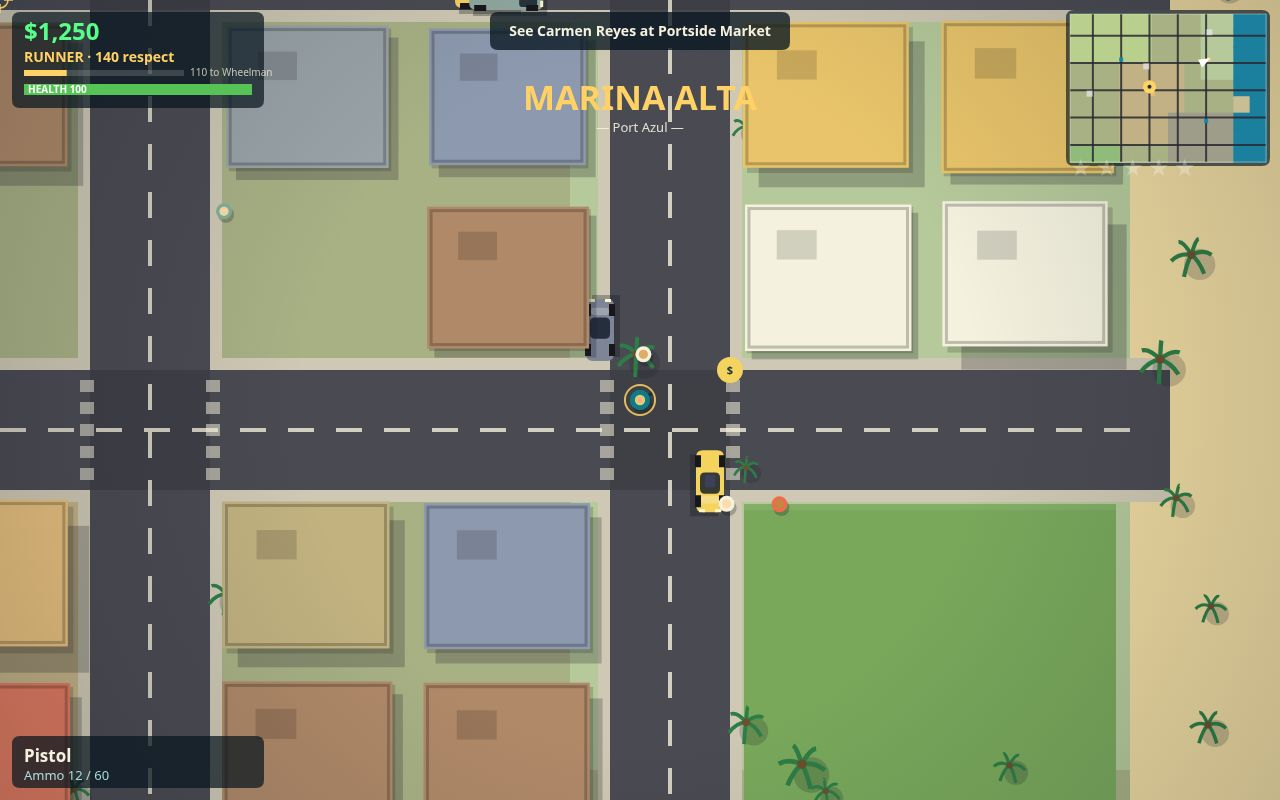
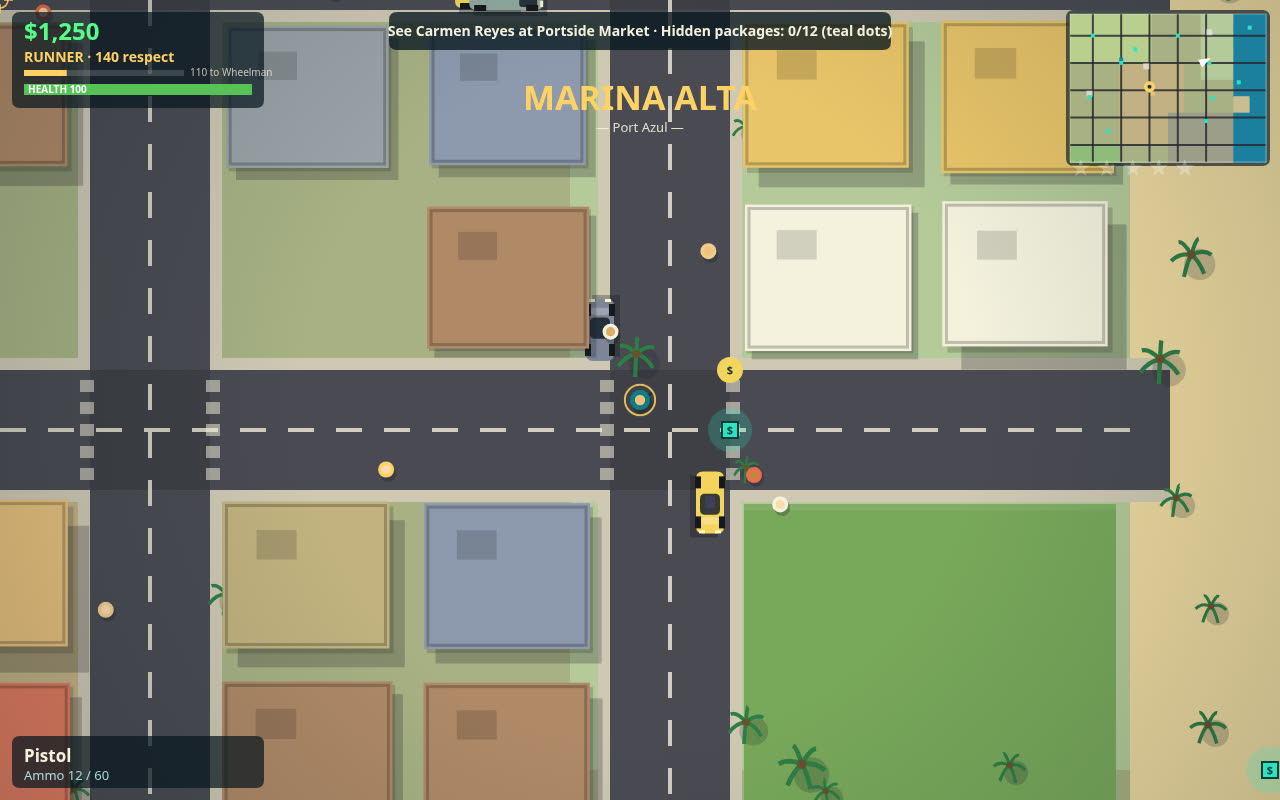
AZUL TIDE polish pass: 4 new story missions, hidden packages, muscle car, ped barks

diff --git a/game/src/missions.js b/game/src/missions.js
@@ -1,7 +1,9 @@
 // AZUL TIDE — missions.js
-// The mission engine and Carmen Reyes' ten-job story chain against the Sombra
-// syndicate, plus repeatable side work (taxi fares, courier runs, street
-// races, vigilante hits) offered at standing markers around Port Azul.
+// The mission engine and Carmen Reyes' fourteen-job story chain against the
+// Sombra syndicate, plus repeatable side work (taxi fares, courier runs,
+// street races, vigilante hits) offered at standing markers around Port Azul,
+// and twelve hidden Sombra packages stashed across the city that pay cash
+// when Dario walks or drives over them.
 //
 // Objective types: goto, deliver, chase-target, escort, race-checkpoints,
 // tail, combat-clear, escape. The engine runs one objective at a time, keeps
@@ -130,6 +132,53 @@ export const STORY_MISSIONS = [
     onStart(state) { raiseWanted(state, 4, 'mission'); },
   },
   {
+    id: 'neon-relay', title: 'Neon Relay', payout: 1900, respect: 120,
+    start: MARKET, timeLimit: 150,
+    dialogStart: [['Carmen Reyes', 'A neon dealer pays triple if his stock lands before the club opens. Clock is running, Dario.'], ['Dario Luna', 'Then I will not be stopping for red lights.']],
+    dialogEnd: [['Carmen Reyes', 'Beat the doors opening. The club crowd owes us now.']],
+    objectives: [
+      { type: 'goto', x: 1520, y: 1400, label: 'Grab the neon stock at Mercado Central', radius: 55 },
+      { type: 'deliver', x: MARINA.x, y: MARINA.y, label: 'Deliver to Marina Alta before the club opens', radius: 60, needCar: true },
+    ],
+  },
+  {
+    id: 'three-drops', title: 'Three Drops', payout: 2100, respect: 125,
+    start: MARKET,
+    dialogStart: [['Carmen Reyes', 'Sombra hid three cash drops around the city before we squeezed him. Collect them all, bring them home.'], ['Dario Luna', 'A treasure hunt. With better parking.']],
+    dialogEnd: [['Carmen Reyes', 'Every last bill. His war chest is our seed money now.']],
+    objectives: [
+      { type: 'goto', x: LIGHTHOUSE.x, y: 320, label: 'Collect drop one at Faro Point', radius: 55 },
+      { type: 'goto', x: 420, y: 1820, label: 'Collect drop two in the Flats', radius: 55 },
+      { type: 'goto', x: DOCKS.x, y: DOCKS.y, label: 'Collect drop three at the Old Harbor docks', radius: 55 },
+      { type: 'deliver', x: GARAGE_CENTRAL.x, y: GARAGE_CENTRAL.y, label: 'Bring the drops to Taller Luna Garage', radius: 60, needCar: true },
+    ],
+  },
+  {
+    id: 'witness-run', title: 'Witness Run', payout: 2300, respect: 135,
+    start: MARKET,
+    dialogStart: [['Carmen Reyes', 'A dock clerk saw everything at the warehouse. Get her to the Flats safehouse alive — Sombra is already hunting.'], ['Dario Luna', 'She rides with me. Nobody touches her.']],
+    dialogEnd: [['Carmen Reyes', 'She will talk. Sombra just lost his last alibi.']],
+    objectives: [
+      { type: 'escort', x: 360, y: 1400, label: 'Escort the witness to the Flats Safehouse', radius: 65, needCar: true },
+      { type: 'combat-clear', x: 360, y: 1400, label: 'Drive off the Sombra hit squad', radius: 95, thugs: 3 },
+    ],
+    onStart(state) {
+      spawnChaser(state, 1900, 1000);
+      spawnChaser(state, 1100, 1650);
+    },
+  },
+  {
+    id: 'convoy-takedown', title: 'Convoy Takedown', payout: 2600, respect: 150,
+    start: MARKET,
+    dialogStart: [['Carmen Reyes', 'Sombra runs one last armoured convoy car through Port Azul. Box it in, stop it, take what is inside.'], ['Dario Luna', 'One car. One me. Bad odds — for him.']],
+    dialogEnd: [['Carmen Reyes', 'The convoy is ours. Only Faro Point is left.']],
+    objectives: [
+      { type: 'chase-target', x: WAREHOUSE.x, y: WAREHOUSE.y, label: 'Run down the Sombra convoy car', radius: 80 },
+      { type: 'deliver', x: GARAGE_HARBOR.x, y: GARAGE_HARBOR.y, label: 'Bring the haul to Harbor Chop & Repair', radius: 65, needCar: true },
+    ],
+    onStart(state) { spawnMissionCar(state, 'muscle', 2300, 1100, 0, 'chase-target'); },
+  },
+  {
     id: 'faro-showdown', title: 'Faro Showdown', payout: 4000, respect: 220,
     start: MARKET,
     dialogStart: [['Victor Sombra', 'Faro Point, Luna. Bring your little empire. I will bring the tide.'], ['Dario Luna', 'This city is done paying you, Victor.']],
@@ -149,6 +198,18 @@ const SIDE_MARKERS = [
   { kind: 'vigilante', name: 'Vigilante Hits', x: WAREHOUSE.x, y: WAREHOUSE.y, color: '#ee6c4d' },
 ];
 
+// Hidden Sombra packages: twelve stashes hidden near landmarks. Walking or
+// driving over one pays $150; finding all twelve pays a $1,000 bonus. They
+// render as glowing teal crates in the world and as teal dots on the minimap
+// (hud.js reads state.data.packages).
+export const PACKAGE_SPOTS = [
+  { x: 3300, y: 240 }, { x: 420, y: 380 }, { x: 2560, y: 860 }, { x: 940, y: 860 },
+  { x: 2620, y: 1480 }, { x: 1460, y: 1340 }, { x: 360, y: 1460 }, { x: 1980, y: 380 },
+  { x: 2500, y: 1880 }, { x: 700, y: 2060 }, { x: 3100, y: 1200 }, { x: 1200, y: 620 },
+];
+export const PACKAGE_PAY = 150;
+export const PACKAGE_BONUS = 1000;
+
 function ensureMissions(state) {
   if (!state.data.missionsInit) {
     state.data.missionsInit = true;
@@ -165,6 +226,33 @@ function ensureMissions(state) {
   }
   if (!state.data.missionCars) state.data.missionCars = [];
   if (!state.data.dialogueQueue) state.data.dialogueQueue = [];
+  if (!state.data.packages) {
+    state.data.packages = PACKAGE_SPOTS.map((s) => ({ x: s.x, y: s.y, taken: false }));
+    state.data.packagesFound = 0;
+  }
+}
+
+function updatePackages(state) {
+  const pkgs = state.data.packages;
+  if (!pkgs) return;
+  const p = state.player;
+  for (const pkg of pkgs) {
+    if (pkg.taken) continue;
+    const d = Math.hypot(p.x - pkg.x, p.y - pkg.y);
+    if (d < 36) {
+      pkg.taken = true;
+      state.data.packagesFound += 1;
+      state.money += PACKAGE_PAY;
+      if (state.data.audioQueue) state.data.audioQueue.push('package');
+      if (state.data.packagesFound >= pkgs.length) {
+        state.money += PACKAGE_BONUS;
+        say(state, [['Carmen Reyes', 'Every hidden package in Port Azul. That is the whole stash, Dario — plus a $' + PACKAGE_BONUS + ' bonus from me.']]);
+      } else {
+        say(state, [['Dario Luna', 'Hidden package ' + state.data.packagesFound + '/' + pkgs.length + '. +$' + PACKAGE_PAY + '.']]);
+      }
+      state.data.requestAutosave = true;
+    }
+  }
 }
 
 function say(state, lines) {
@@ -221,7 +309,7 @@ export function startStoryMission(state, index) {
     index,
     def,
     objIndex: 0,
-    timer: 0,
+    timer: def.timeLimit || 0,
     objTimer: 0,
     pointIndex: 0,
     thugsAlive: 0,
@@ -356,7 +444,7 @@ function completeMission(state) {
     if (m.index === 3 && state.data.weapons) state.data.weapons.unlocked.smg = true;
     if (m.index === 6 && state.data.weapons) state.data.weapons.unlocked.shotgun = true;
     state.data.storyIndex = Math.max(state.data.storyIndex || 0, m.index + 1);
-    if (m.index === 9) say(state, [['Dario Luna', 'Port Azul is free. Time to build something of my own.']]);
+    if (m.index === 13) say(state, [['Dario Luna', 'Port Azul is free. Time to build something of my own.']]);
   } else {
     say(state, [['Dispatch', 'Job done. $' + payout + ' wired. More work whenever you want it.']]);
     state.data.sideCooldown = 4;
@@ -517,6 +605,7 @@ function update(state, dt) {
   }
 
   updateMissionCars(state, dt);
+  updatePackages(state);
 
   const p = state.player;
   const m = state.data.mission;
@@ -543,7 +632,10 @@ function update(state, dt) {
       }
     }
     state.data.missionMarker = next ? { x: MARKET.x, y: MARKET.y, label: next.title, kind: 'story' } : null;
-    state.data.objectiveText = next ? 'See Carmen Reyes at Portside Market' : 'Port Azul is yours. Side jobs still pay.';
+    const pkgNote = state.data.packagesFound < state.data.packages.length
+      ? ' · Hidden packages: ' + state.data.packagesFound + '/' + state.data.packages.length + ' (teal dots)'
+      : ' · All hidden packages found';
+    state.data.objectiveText = (next ? 'See Carmen Reyes at Portside Market' : 'Port Azul is yours. Side jobs still pay.') + pkgNote;
     return;
   }
 
@@ -623,6 +715,27 @@ function render(ctx, state, w, h) {
     ctx.font = 'bold 15px system-ui, sans-serif';
     ctx.textAlign = 'center';
     ctx.fillText(marker.kind === 'story' ? '!' : '◆', marker.x, marker.y - 44);
+  }
+
+  // Hidden packages: glowing teal crates with a soft pulse.
+  if (state.mode === 'playing') {
+    for (const pkg of state.data.packages || []) {
+      if (pkg.taken) continue;
+      const pulse = 1 + Math.sin(state.time * 3.4 + pkg.x * 0.01) * 0.18;
+      ctx.fillStyle = 'rgba(45,226,196,0.22)';
+      ctx.beginPath();
+      ctx.arc(pkg.x, pkg.y, 20 * pulse, 0, Math.PI * 2);
+      ctx.fill();
+      ctx.fillStyle = '#2de2c4';
+      ctx.fillRect(pkg.x - 8, pkg.y - 8, 16, 16);
+      ctx.strokeStyle = '#0b3d36';
+      ctx.lineWidth = 2;
+      ctx.strokeRect(pkg.x - 8, pkg.y - 8, 16, 16);
+      ctx.fillStyle = '#0b3d36';
+      ctx.font = 'bold 11px system-ui, sans-serif';
+      ctx.textAlign = 'center';
+      ctx.fillText('$', pkg.x, pkg.y + 4);
+    }
   }
 
   // Side-job markers when free.

diff --git a/game/src/pedestrians.js b/game/src/pedestrians.js
@@ -9,6 +9,9 @@
 
 import { H_ROADS, ROAD_W, V_ROADS } from './city.js';
 
+const BARKS_CALM = ['¡Qué calor hoy!', 'The tide smells like money.', 'Heard Sombra lost another truck.', 'Marina Alta tonight?', 'Careful, the police are jumpy.', 'Best empanadas at the market.'];
+const BARKS_FLEE = ['¡Cuidado!', 'He is crazy!', 'My car!', 'Run!', '¡Policía!', 'Not again!'];
+
 const SHIRTS = ['#e07a5f', '#81b29a', '#f2cc8f', '#a8dadc', '#f4f1de', '#ee6c4d', '#118ab2', '#ffd166'];
 const SKINS = ['#f1c27d', '#e0ac69', '#c68642', '#8d5524', '#ffdbac'];
 
@@ -27,6 +30,9 @@ export function makePed(x, y, rng) {
     fleeT: 0,
     walkSpeed: 42 + rng() * 30,
     phase: rng() * Math.PI * 2,
+    bark: null,
+    barkT: 0,
+    barkCooldown: 4 + rng() * 14,
   };
 }
 
@@ -110,8 +116,24 @@ export function updatePedestrian(ped, dt, state) {
       }
     }
   }
+  // Bark lines: shouted when danger hits, muttered when Dario passes close.
+  if (ped.barkT > 0) ped.barkT -= dt;
+  else ped.bark = null;
+  ped.barkCooldown -= dt;
+  if (ped.barkCooldown <= 0 && ped.state !== 'flee') {
+    const pdx = ped.x - state.player.x;
+    const pdy = ped.y - state.player.y;
+    if (pdx * pdx + pdy * pdy < 130 * 130) {
+      ped.bark = BARKS_CALM[Math.floor(rng() * BARKS_CALM.length)];
+      ped.barkT = 2.2;
+    }
+    ped.barkCooldown = 6 + rng() * 16;
+  }
+
   if (danger && ped.state !== 'flee') {
     ped.state = 'flee';
+    ped.bark = BARKS_FLEE[Math.floor(rng() * BARKS_FLEE.length)];
+    ped.barkT = 1.6;
     ped.fleeT = 1.4 + rng() * 0.8;
     const dx = ped.x - danger.x;
     const dy = ped.y - danger.y;

diff --git a/game/src/shots-stage.js b/game/src/shots-stage.js
@@ -109,6 +109,24 @@ function stageEmpire(state) {
   state.vehicles.parked.push(car);
 }
 
+function stageNeon(state) {
+  // The new "Neon Relay" timed delivery (story mission 10): Dario in a
+  // muscle car with the stock aboard, the clock on the HUD objective line,
+  // a hidden package glowing on the corner ahead.
+  const car = makeCar('muscle', 1750, 1420, 0.35, state.rng);
+  car.color = '#9d0208';
+  car.speed = 160;
+  putPlayerInCar(state, car);
+  state.money = 4950;
+  state.data.respect = 760;
+  state.data.storyIndex = 9;
+  if (state.data.startStoryMission) state.data.startStoryMission(9);
+  if (state.data.dialogueQueue) {
+    state.data.dialogue = { speaker: 'Carmen Reyes', text: 'A neon dealer pays triple if his stock lands before the club opens. Clock is running, Dario.' };
+    state.data.dialogueT = 30;
+  }
+}
+
 function update(state) {
   if (staged || !state.shot) return;
   staged = true;
@@ -117,6 +135,7 @@ function update(state) {
     else if (state.shot === 'chase') stageChase(state);
     else if (state.shot === 'mission') stageMission(state);
     else if (state.shot === 'empire') stageEmpire(state);
+    else if (state.shot === 'neon') stageNeon(state);
   } catch (err) {
     // Staging must never break boot; the plain scene still renders.
     void err;

diff --git a/main.ts b/main.ts
@@ -22,9 +22,12 @@ const GAME_TITLE = 'AZUL TIDE';
 // Systems build (second pass, game/src/): police.js runs the wanted system —
 // pursuit cars, roadblocks at three stars, a helicopter at four, line-of-sight
 // evasion and busts; combat.js adds mouse-aim fists/pistol/SMG/shotgun with
-// tracers, reloads and return fire; missions.js runs Carmen Reyes' ten-mission
-// story chain (deliver, escort, race, tail, heist, escape, showdown) plus
-// repeatable taxi, courier, race and vigilante side jobs; progression.js owns
+// tracers, reloads and return fire; missions.js runs Carmen Reyes' fourteen-mission
+// story chain (deliver, escort, race, tail, heist, escape, timed relay,
+// collect-and-return drops, witness escort, convoy takedown, showdown) plus
+// repeatable taxi, courier, race and vigilante side jobs and twelve hidden
+// cash packages stashed across the city; vehicles include a muscle car and
+// pedestrians trade bark lines; progression.js owns
 // respect ranks, district standing, garage upgrades, shops, buyable safehouse
 // properties, the weapon wheel, the three-station radio and localStorage
 // saves; audio.js synthesizes engine, siren, gunfire and radio with WebAudio;

diff --git a/game/src/vehicles.js b/game/src/vehicles.js
@@ -17,6 +17,7 @@ export const CAR_TYPES = {
   van: { name: 'Van', length: 74, width: 32, accel: 190, maxSpeed: 270, reverse: 100, grip: 4.6, colors: ['#e9e9e9', '#90a8a0', '#b08968'] },
   truck: { name: 'Truck', length: 92, width: 34, accel: 160, maxSpeed: 240, reverse: 90, grip: 4.2, colors: ['#6c757d', '#8a817c', '#5f6c37'] },
   sports: { name: 'Sports', length: 60, width: 28, accel: 380, maxSpeed: 460, reverse: 140, grip: 6.4, colors: ['#ee6c4d', '#118ab2', '#ffd166', '#8338ec'] },
+  muscle: { name: 'Muscle', length: 66, width: 30, accel: 340, maxSpeed: 420, reverse: 130, grip: 5.6, colors: ['#9d0208', '#370617', '#faa307', '#2a9d8f'] },
 };
 
 const TYPE_KEYS = Object.keys(CAR_TYPES);

diff --git a/game/src/render.js b/game/src/render.js
@@ -287,6 +287,18 @@ export function drawPed(ctx, ped) {
   ctx.beginPath();
   ctx.arc(ped.x, ped.y + bob * 0.3, 4.6, 0, Math.PI * 2);
   ctx.fill();
+  // Bark line: a small speech bubble while the timer runs.
+  if (ped.bark && ped.barkT > 0) {
+    ctx.font = '11px system-ui, sans-serif';
+    ctx.textAlign = 'center';
+    const tw = ctx.measureText(ped.bark).width + 12;
+    ctx.fillStyle = 'rgba(255,255,255,0.88)';
+    ctx.beginPath();
+    ctx.roundRect(ped.x - tw / 2, ped.y - 34, tw, 16, 5);
+    ctx.fill();
+    ctx.fillStyle = '#17323e';
+    ctx.fillText(ped.bark, ped.x, ped.y - 22);
+  }
 }
 
 export function drawPlayer(ctx, state) {

diff --git a/game/src/audio.js b/game/src/audio.js
@@ -134,6 +134,15 @@ function playCue(cue) {
       tone(659, 0.11, 'triangle', 0.15, null, 0.1);
       tone(784, 0.2, 'triangle', 0.16, null, 0.2);
       break;
+    case 'package':
+      tone(1046, 0.08, 'sine', 0.13);
+      tone(1318, 0.08, 'sine', 0.13, null, 0.06);
+      tone(1568, 0.14, 'sine', 0.14, null, 0.12);
+      break;
+    case 'cash':
+      tone(880, 0.06, 'square', 0.07);
+      tone(1174, 0.1, 'square', 0.07, null, 0.05);
+      break;
     case 'fail':
       tone(392, 0.16, 'triangle', 0.13);
       tone(311, 0.24, 'triangle', 0.13, null, 0.13);

diff --git a/game/src/hud.js b/game/src/hud.js
@@ -86,6 +86,12 @@ function drawMinimap(ctx, state, w, h) {
       ctx.fillRect(sx(loc.x) - 2, sy(loc.y) - 2, 4, 4);
     }
   }
+  // Hidden packages: small teal dots.
+  for (const pkg of state.data.packages || []) {
+    if (pkg.taken) continue;
+    ctx.fillStyle = '#2de2c4';
+    ctx.fillRect(sx(pkg.x) - 2, sy(pkg.y) - 2, 4, 4);
+  }
   // Mission marker.
   const marker = state.data.missionMarker;
   if (marker) {

diff --git a/README.md b/README.md
@@ -10,7 +10,7 @@ This project was built for the [gta6-01 bounty on make.fun](https://make.fun/bou
 
 ## The City and the Story
 
-Port Azul is split into 7 distinct districts, each with its own look, traffic density, and attitude toward you. District standing matters: run a neighbourhood ragged and it remembers; keep it sweet and doors open more easily. The main storyline runs through 10 story missions that carry Dario from errand-running for Carmen Reyes into a direct collision with Victor Sombra's operation, with respect ranks tracking how far your reputation has climbed along the way.
+Port Azul is split into 7 distinct districts, each with its own look, traffic density, and attitude toward you. District standing matters: run a neighbourhood ragged and it remembers; keep it sweet and doors open more easily. The main storyline runs through 14 story missions that carry Dario from errand-running for Carmen Reyes into a direct collision with Victor Sombra's operation, with respect ranks tracking how far your reputation has climbed along the way.
 
 Between story beats, the city stays busy. Four repeatable side jobs — taxi fares, courier runs, street races, and vigilante work — keep cash flowing and give you reasons to learn every shortcut in town.
 
@@ -21,7 +21,7 @@ Between story beats, the city stays busy. Four repeatable side jobs — taxi far
 - **Stealable cars** — any vehicle you can reach is a vehicle you can take, and every ride handles as part of the chase
 - **Police pursuits with escalation** — a wanted system that grows teeth as your stars climb: roadblocks appear at 3+ stars, and a helicopter joins the hunt at 4+ stars
 - **Pursuit states** — chases move through PURSUIT, EVADING, and EVADED, so breaking line of sight is a real skill, not a cutscene
-- **10 story missions** following Dario Luna, Carmen Reyes, and Victor Sombra, plus **4 repeatable side jobs**: taxi, courier, street races, and vigilante
+- **14 story missions** following Dario Luna, Carmen Reyes, and Victor Sombra — deliveries, escorts, races, tails, a timed neon relay, a three-drop cash hunt, a witness run and a convoy takedown — plus **4 repeatable side jobs**: taxi, courier, street races, and vigilante, and **12 hidden cash packages** stashed across the city (teal dots on the minimap)
 - **Combat with a weapon wheel** — mouse-aimed shooting, reloading, and quick weapon selection mid-fight
 - **Respect ranks and district standing** — a two-layer reputation system that tracks both your overall name and your standing block by block
 - **Garage upgrades** — spend earnings on making your rides faster and tougher
